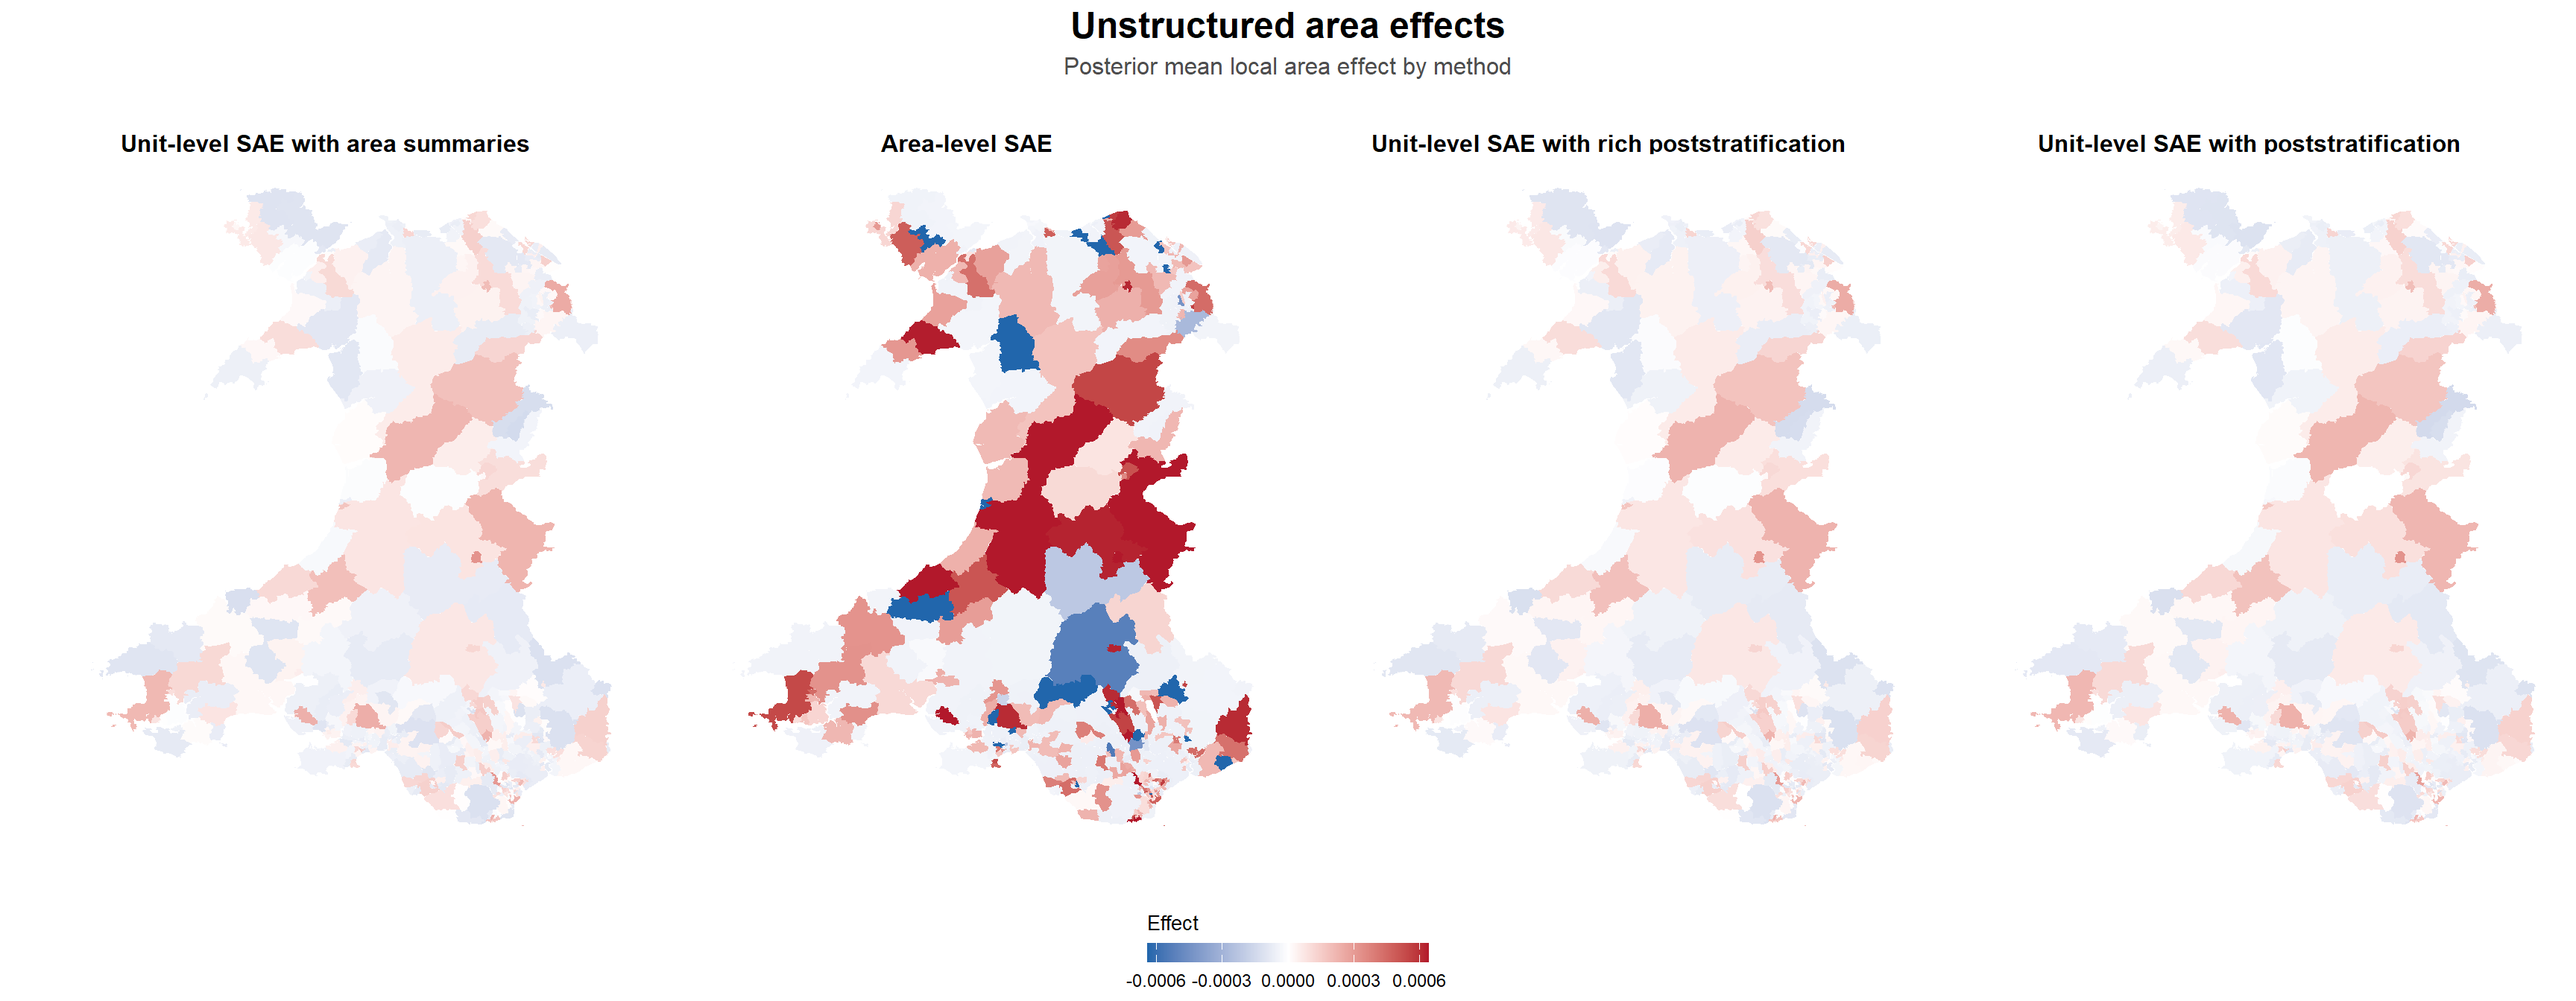
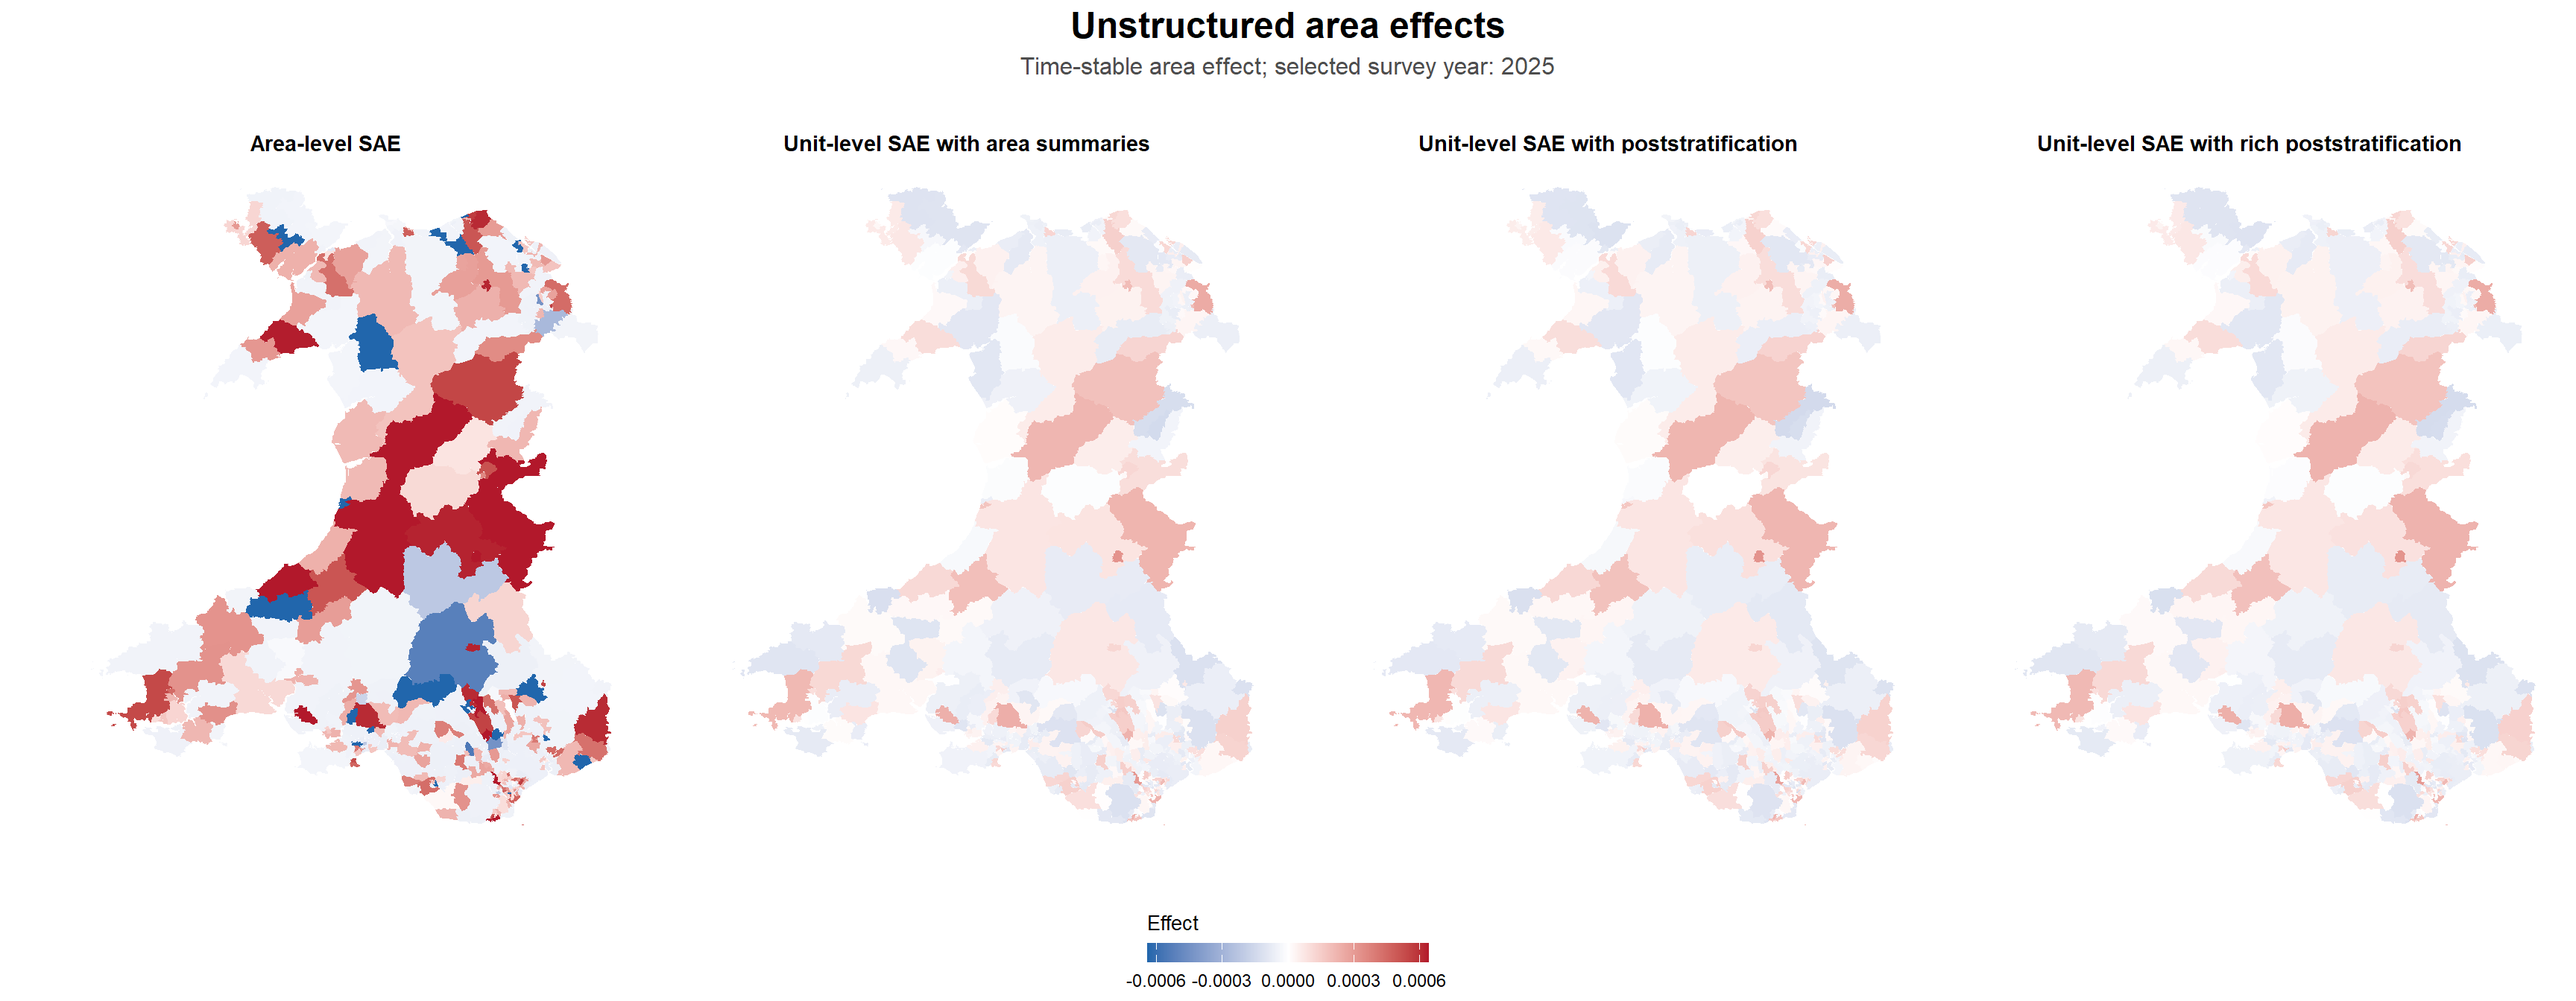
fixed diag plots

diff --git a/docs/diagnostics.html b/docs/diagnostics.html
@@ -360,7 +360,7 @@ ul.task-list li input[type="checkbox"] {
 </section>
 <section id="residual-area-effects" class="level2" data-number="4">
 <h2 data-number="4" class="anchored" data-anchor-id="residual-area-effects"><span class="header-section-number">4</span> Residual Area Effects</h2>
-<p>The unstructured area-effect maps show where the fitted models allocate remaining area-level variation after the fixed effects and temporal and spatial structure are considered.</p>
+<p>The unstructured area-effect maps show where the fitted models allocate remaining area-level variation after the fixed effects and temporal and spatial structure are considered. These area effects are time-stable model terms, so they are shown once per method alongside the selected-year diagnostics.</p>
 <div class="cell">
 <div class="cell-output-display">
 <p><img src="diagnostics_files/figure-html/diag-area-effect-map-1.png" class="img-fluid" style="width:100.0%"></p>
